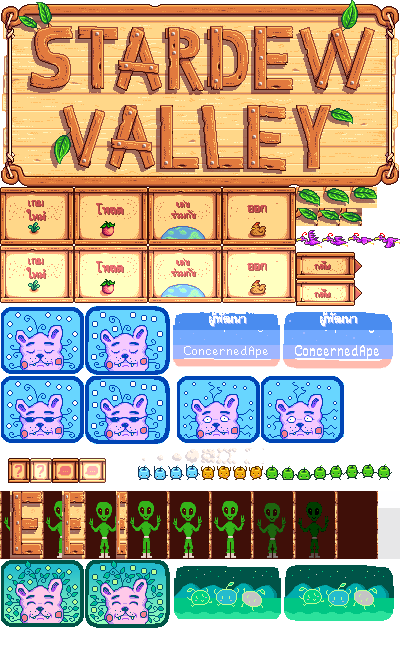
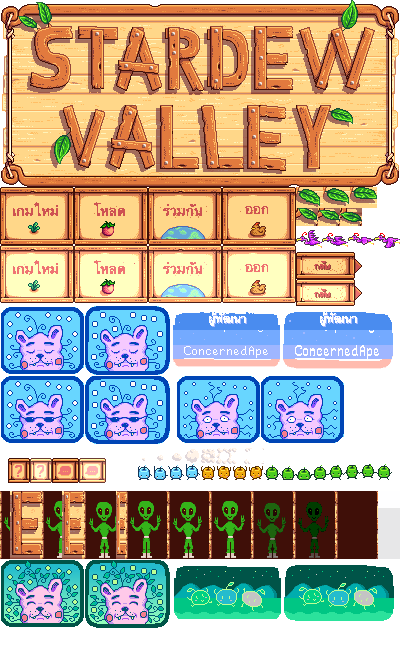
Rebuild localized title menu buttons

diff --git a/Tests/StardewTranslationInstallerTests/InstallerCoreTests.swift b/Tests/StardewTranslationInstallerTests/InstallerCoreTests.swift
@@ -350,6 +350,35 @@ struct InstallerCoreTests {
                 )
         )
 
+        let unifiedTitleButtonHashes = [
[19 lines of base64/hex data omitted]
+        ]
+        for (titlePath, expectedHash) in unifiedTitleButtonHashes {
+            try expect(try pngDimensions(titlePath) == (400, 655))
+            try expect(
+                try DependencyInstaller.sha256(of: payload.appendingPathComponent(titlePath))
+                    == expectedHash
+            )
+        }
+
         let vietnameseButtonPath = "assets/button-vietnamese.png"
         try expect(try pngDimensions(vietnameseButtonPath) == (174, 78))
         try expect(
@@ -360,7 +389,7 @@ struct InstallerCoreTests {
         try expect(try pngDimensions(vietnameseTitlePath) == (400, 655))
         try expect(
             try DependencyInstaller.sha256(of: payload.appendingPathComponent(vietnameseTitlePath))
[2 lines of base64/hex data omitted]
         )
 
         let hindiButtonPath = "assets/button-hindi.png"
@@ -373,7 +402,7 @@ struct InstallerCoreTests {
         try expect(try pngDimensions(hindiTitlePath) == (400, 655))
         try expect(
             try DependencyInstaller.sha256(of: payload.appendingPathComponent(hindiTitlePath))
[2 lines of base64/hex data omitted]
         )
 
         let swahiliButtonPath = "assets/button-swahili.png"
@@ -386,7 +415,7 @@ struct InstallerCoreTests {
         try expect(try pngDimensions(swahiliTitlePath) == (400, 655))
         try expect(
             try DependencyInstaller.sha256(of: payload.appendingPathComponent(swahiliTitlePath))
[2 lines of base64/hex data omitted]
         )
 
         let indonesianButtonPath = "assets/button-indonesian.png"
@@ -399,7 +428,7 @@ struct InstallerCoreTests {
         try expect(try pngDimensions(indonesianTitlePath) == (400, 655))
         try expect(
             try DependencyInstaller.sha256(of: payload.appendingPathComponent(indonesianTitlePath))
[2 lines of base64/hex data omitted]
         )
 
 
@@ -413,7 +442,7 @@ struct InstallerCoreTests {
         try expect(try pngDimensions(filipinoTitlePath) == (400, 655))
         try expect(
             try DependencyInstaller.sha256(of: payload.appendingPathComponent(filipinoTitlePath))
[2 lines of base64/hex data omitted]
         )
 
         let filipinoFontHashes = [
@@ -437,7 +466,7 @@ struct InstallerCoreTests {
         try expect(try pngDimensions(romanianTitlePath) == (400, 655))
         try expect(
             try DependencyInstaller.sha256(of: payload.appendingPathComponent(romanianTitlePath))
[2 lines of base64/hex data omitted]
         )
 
         try expect(try pngDimensions("assets/button-persian.png") == (174, 78))
@@ -450,7 +479,7 @@ struct InstallerCoreTests {
         try expect(
             try DependencyInstaller.sha256(
                 of: payload.appendingPathComponent("assets/title/TitleButtons-persian.png")
[2 lines of base64/hex data omitted]
         )
 
         try expect(try pngDimensions("assets/button-arabic.png") == (174, 78))
@@ -463,12 +492,12 @@ struct InstallerCoreTests {
         try expect(
             try DependencyInstaller.sha256(
                 of: payload.appendingPathComponent("assets/title/TitleButtons-arabic.png")
[2 lines of base64/hex data omitted]
         )
 
         let bulgarianAssetHashes = [
[5 lines of base64/hex data omitted]
         ]
@@ -491,7 +520,7 @@ struct InstallerCoreTests {
         try expect(
             try DependencyInstaller.sha256(
                 of: payload.appendingPathComponent("assets/title/TitleButtons-thai.png")
[2 lines of base64/hex data omitted]
         )
 
         let greekFontHashes = [
@@ -514,12 +543,12 @@ struct InstallerCoreTests {
         try expect(
             try DependencyInstaller.sha256(
                 of: payload.appendingPathComponent("assets/title/TitleButtons-greek.png")
[2 lines of base64/hex data omitted]
         )
 
         let czechAssetHashes = [
[5 lines of base64/hex data omitted]
         ]

diff --git a/Scripts/generate-title-buttons.py b/Scripts/generate-title-buttons.py
@@ -1,0 +1,206 @@
+#!/usr/bin/python3
+"""Generate readable main-menu buttons for every retained localization."""
+
+from __future__ import annotations
+
+import argparse
+import subprocess
+import tempfile
+from dataclasses import dataclass
+from pathlib import Path
+
+from PIL import Image, ImageDraw, ImageFont
+
+
+@dataclass(frozen=True)
+class TitleButtons:
+    filename: str
+    labels: tuple[tuple[str, ...], ...]
+    font: str
+    font_index: int = 0
+    shaped: bool = False
+    max_size: int = 13
+    threshold: int = 96
+
+
+ARIAL_BOLD = "/System/Library/Fonts/Supplemental/Arial Bold.ttf"
+GEEZA = "/System/Library/Fonts/GeezaPro.ttc"
+DEVANAGARI = "/System/Library/Fonts/Supplemental/Devanagari Sangam MN.ttc"
+SONGTI = "/System/Library/Fonts/Supplemental/Songti.ttc"
+NEW_PENINIM = "/System/Library/Fonts/Supplemental/NewPeninimMT.ttc"
+THONBURI = "/System/Library/Fonts/Supplemental/Thonburi.ttc"
+
+BUTTONS = (
+    TitleButtons("TitleButtons-russian.png", (("НОВАЯ", "ИГРА"), ("ЗАГРУЗИТЬ",), ("СОВМЕСТНАЯ", "ИГРА"), ("ВЫЙТИ", "ИЗ ИГРЫ")), ARIAL_BOLD),
+    TitleButtons("TitleButtons-serbian.png", (("НОВА", "ИГРА"), ("УЧИТАЈ",), ("ЗАЈЕДНО",), ("ИЗАЂИ",)), ARIAL_BOLD),
+    TitleButtons("TitleButtons.png", (("NOWA", "GRA"), ("WCZYTAJ",), ("KOOPERACJA",), ("WYJDŹ",)), ARIAL_BOLD),
+    TitleButtons("TitleButtons-ukrainian.png", (("НОВА", "ГРА"), ("ЗАВАНТАЖИТИ",), ("СПІЛЬНА", "ГРА"), ("ВИЙТИ", "З ГРИ")), ARIAL_BOLD),
+    TitleButtons("TitleButtons-vietnamese.png", (("CHƠI MỚI",), ("TẢI", "TRÒ CHƠI"), ("CHƠI", "CHUNG"), ("THOÁT",)), ARIAL_BOLD),
+    TitleButtons("TitleButtons-swahili.png", (("MCHEZO", "MPYA"), ("PAKIA",), ("USHIRIKIANO",), ("TOKA",)), ARIAL_BOLD),
+    TitleButtons("TitleButtons-persian.png", (("بازی", "جدید"), ("بارگیری",), ("چندنفره",), ("خروج",)), GEEZA, shaped=True, max_size=14, threshold=144),
+    TitleButtons("TitleButtons-arabic.png", (("لعبة", "جديدة"), ("تحميل",), ("تعاوني",), ("خروج",)), GEEZA, shaped=True, max_size=14, threshold=144),
+    TitleButtons("TitleButtons-indonesian.png", (("PERMAINAN", "BARU"), ("MUAT",), ("MAIN", "BERSAMA"), ("KELUAR",)), ARIAL_BOLD),
+    TitleButtons("TitleButtons-filipino.png", (("BAGONG", "LARO"), ("I-LOAD",), ("CO-OP",), ("LUMABAS",)), ARIAL_BOLD),
+    TitleButtons("TitleButtons-dutch.png", (("NIEUW", "SPEL"), ("LADEN",), ("COÖP",), ("AFSLUITEN",)), ARIAL_BOLD),
+    TitleButtons("TitleButtons-hindi.png", (("नया", "खेल"), ("लोड",), ("सहकारी",), ("बाहर", "निकलें")), DEVANAGARI, shaped=True, max_size=14, threshold=144),
+    TitleButtons("TitleButtons-traditional-chinese.png", (("新遊戲",), ("載入",), ("合作",), ("離開",)), SONGTI, font_index=2, max_size=14, threshold=128),
+    TitleButtons("TitleButtons-romanian.png", (("JOC", "NOU"), ("ÎNCARCĂ",), ("COOPERARE",), ("IEȘIRE",)), ARIAL_BOLD),
+    TitleButtons("TitleButtons-hebrew.png", (("משחק חדש",), ("טעינה",), ("משותף",), ("יציאה",)), NEW_PENINIM, shaped=True, max_size=14, threshold=144),
+    TitleButtons("TitleButtons-bulgarian.png", (("НОВА", "ИГРА"), ("ЗАРЕДИ",), ("ЗАЕДНО",), ("ИЗХОД",)), ARIAL_BOLD),
+    TitleButtons("TitleButtons-thai.png", (("เกมใหม่",), ("โหลด",), ("ร่วมกัน",), ("ออก",)), THONBURI, shaped=True, max_size=14, threshold=144),
+    TitleButtons("TitleButtons-greek.png", (("ΝΕΟ", "ΠΑΙΧΝΙΔΙ"), ("ΦΟΡΤΩΣΗ",), ("ΣΥΝΕΡΓΑΣΙΑ",), ("ΕΞΟΔΟΣ",)), ARIAL_BOLD),
+    TitleButtons("TitleButtons-czech.png", (("NOVÁ HRA",), ("NAČÍST",), ("KOOPERACE",), ("UKONČIT",)), ARIAL_BOLD),
+)
+
+ATLAS_SIZE = (400, 655)
+STRIP_POSITION = (0, 184)
+STRIP_SIZE = (296, 116)
+LABEL_BOXES = (
+    (6, 14, 65, 38),
+    (80, 14, 139, 38),
+    (154, 14, 213, 38),
+    (228, 14, 287, 38),
+)
+INK_COLORS = ((206, 82, 82, 255), (239, 115, 115, 255))
+STATE_OFFSET = 58
+MAX_TEXT_WIDTH = 53
+MAX_TEXT_HEIGHT = 20
+
+
+def render_pillow(text: str, font_path: Path, size: int, index: int, threshold: int) -> Image.Image:
+    font = ImageFont.truetype(str(font_path), size, index=index)
+    probe = Image.new("L", (256, 64), 0)
+    bounds = ImageDraw.Draw(probe).textbbox((0, 0), text, font=font)
+    mask = Image.new("L", (bounds[2] - bounds[0], bounds[3] - bounds[1]), 0)
+    ImageDraw.Draw(mask).text((-bounds[0], -bounds[1]), text, font=font, fill=255)
+    return mask.point(lambda value: 255 if value >= threshold else 0)
+
+
+def render_shaped(text: str, spec: TitleButtons, size: int, renderer: Path) -> Image.Image:
+    with tempfile.NamedTemporaryFile(suffix=".png") as output:
+        subprocess.run(
+            [str(renderer), spec.font, text, str(size), output.name, str(spec.font_index), str(spec.threshold)],
+            check=True,
+        )
+        return Image.open(output.name).convert("RGBA").getchannel("A").copy()
+
+
+def render_line(text: str, spec: TitleButtons, size: int, renderer: Path) -> Image.Image:
+    if spec.shaped:
+        return render_shaped(text, spec, size, renderer)
+    return render_pillow(text, Path(spec.font), size, spec.font_index, spec.threshold)
+
+
+def render_label(lines: tuple[str, ...], spec: TitleButtons, renderer: Path) -> Image.Image:
+    for size in range(spec.max_size, 6, -1):
+        masks = [render_line(line, spec, size, renderer) for line in lines]
+        gap = 1 if len(masks) > 1 else 0
+        width = max(mask.width for mask in masks)
+        height = sum(mask.height for mask in masks) + gap * (len(masks) - 1)
+        if width <= MAX_TEXT_WIDTH and height <= MAX_TEXT_HEIGHT:
+            label = Image.new("L", (width, height), 0)
+            y = 0
+            for mask in masks:
+                label.paste(mask, ((width - mask.width) // 2, y), mask)
+                y += mask.height + gap
+            return label
+    raise ValueError(f"Cannot fit title label: {' / '.join(lines)}")
+
+
+def build_atlas(source: Image.Image, template: Image.Image, spec: TitleButtons, renderer: Path) -> Image.Image:
+    result = source.copy()
+    result.paste(template, STRIP_POSITION)
+    for box, lines in zip(LABEL_BOXES, spec.labels):
+        label = render_label(lines, spec, renderer)
+        for state, color in enumerate(INK_COLORS):
+            left, top, right, bottom = box
+            x = left + ((right - left) - label.width) // 2
+            y = top + state * STATE_OFFSET + ((bottom - top) - label.height) // 2
+            result.paste(Image.new("RGBA", label.size, color), (x, y + STRIP_POSITION[1]), label)
+    return result
+
+
+def validate_atlas(atlas: Image.Image, template: Image.Image, spec: TitleButtons) -> None:
+    if atlas.size != ATLAS_SIZE:
+        raise ValueError(f"Invalid atlas dimensions for {spec.filename}: {atlas.size}")
+    strip = atlas.crop((0, 184, 296, 300))
+    for state, color in enumerate(INK_COLORS):
+        for index, box in enumerate(LABEL_BOXES):
+            left, top, right, bottom = box
+            top += state * STATE_OFFSET
+            bottom += state * STATE_OFFSET
+            points = [
+                (x, y)
+                for y in range(top, bottom)
+                for x in range(left, right)
+                if strip.getpixel((x, y)) == color
+            ]
+            if len(points) < 12:
+                raise ValueError(f"Unreadable or missing label {index} in {spec.filename}")
+            xs = [point[0] for point in points]
+            ys = [point[1] for point in points]
+            if min(xs) <= left or max(xs) >= right - 1 or min(ys) <= top or max(ys) >= bottom - 1:
+                raise ValueError(f"Label {index} touches its safe boundary in {spec.filename}")
+    allowed = set()
+    for state in range(2):
+        for left, top, right, bottom in LABEL_BOXES:
+            allowed.update(
+                (x, y)
+                for y in range(top + state * STATE_OFFSET, bottom + state * STATE_OFFSET)
+                for x in range(left, right)
+            )
+    for y in range(STRIP_SIZE[1]):
+        for x in range(STRIP_SIZE[0]):
+            if (x, y) not in allowed and strip.getpixel((x, y)) != template.getpixel((x, y)):
+                raise ValueError(f"Frame art changed in {spec.filename} at {x},{y}")
+    for y in range(58):
+        for x in range(296):
+            normal_ink = strip.getpixel((x, y)) == INK_COLORS[0]
+            hover_ink = strip.getpixel((x, y + STATE_OFFSET)) == INK_COLORS[1]
+            if normal_ink != hover_ink:
+                raise ValueError(f"Normal/hover label geometry differs in {spec.filename} at {x},{y}")
+
+
+def write_preview(atlases: list[Image.Image], output: Path) -> None:
+    scale = 3
+    columns = 2
+    gap = 8
+    strip_width = STRIP_SIZE[0] * scale
+    strip_height = STRIP_SIZE[1] * scale
+    rows = (len(atlases) + columns - 1) // columns
+    sheet = Image.new("RGB", (columns * strip_width + (columns + 1) * gap, rows * strip_height + (rows + 1) * gap), (0, 16, 23))
+    for index, atlas in enumerate(atlases):
+        strip = atlas.crop((0, 184, 296, 300)).resize((strip_width, strip_height), Image.Resampling.NEAREST)
+        x = gap + (index % columns) * (strip_width + gap)
+        y = gap + (index // columns) * (strip_height + gap)
+        sheet.paste(strip.convert("RGB"), (x, y))
+    output.parent.mkdir(parents=True, exist_ok=True)
+    sheet.save(output, format="PNG", optimize=False)
+
+
+def main() -> None:
+    parser = argparse.ArgumentParser()
+    parser.add_argument("assets", type=Path)
+    parser.add_argument("renderer", type=Path)
+    parser.add_argument("--template", type=Path, required=True)
+    parser.add_argument("--preview", type=Path)
+    args = parser.parse_args()
+
+    template = Image.open(args.template).convert("RGBA")
+    if template.size != STRIP_SIZE:
+        raise ValueError(f"Unexpected title-button template size: {template.size}")
+    atlases = []
+    for spec in BUTTONS:
+        path = args.assets / spec.filename
+        source = Image.open(path).convert("RGBA")
+        atlas = build_atlas(source, template, spec, args.renderer)
+        validate_atlas(atlas, template, spec)
+        atlas.save(path, format="PNG", optimize=False)
+        atlases.append(atlas)
+    if args.preview:
+        write_preview(atlases, args.preview)
+    print(f"Built and validated {len(atlases)} localized title-button atlases.")
+
+
+if __name__ == "__main__":
+    main()

diff --git a/Scripts/extract-title-button-template.py b/Scripts/extract-title-button-template.py
@@ -1,0 +1,62 @@
+#!/usr/bin/python3
+"""Recover the text-free main-menu button strip from official title atlases."""
+
+from __future__ import annotations
+
+import argparse
+from collections import Counter
+from pathlib import Path
+
+from PIL import Image
+
+
+ATLAS_SIZE = (400, 655)
+STRIP_BOX = (0, 184, 296, 300)
+LABEL_BOXES = (
+    (6, 14, 65, 38),
+    (80, 14, 139, 38),
+    (154, 14, 213, 38),
+    (228, 14, 287, 38),
+)
+INK_COLORS = ((206, 82, 82, 255), (239, 115, 115, 255))
+BACKGROUND_COLORS = ((255, 215, 137, 255), (255, 255, 192, 255))
+STATE_OFFSET = 58
+
+
+def main() -> None:
+    parser = argparse.ArgumentParser()
+    parser.add_argument("output", type=Path)
+    parser.add_argument("atlases", type=Path, nargs="+")
+    args = parser.parse_args()
+
+    atlases = [Image.open(path).convert("RGBA") for path in args.atlases]
+    if len(atlases) < 2:
+        raise ValueError("At least two official localized atlases are required")
+    for path, atlas in zip(args.atlases, atlases):
+        if atlas.size != ATLAS_SIZE:
+            raise ValueError(f"Unexpected TitleButtons atlas size for {path}: {atlas.size}")
+
+    strips = [atlas.crop(STRIP_BOX) for atlas in atlases]
+    result = strips[0].copy()
+    missing = 0
+    for state, (ink, background) in enumerate(zip(INK_COLORS, BACKGROUND_COLORS)):
+        offset_y = state * STATE_OFFSET
+        for left, top, right, bottom in LABEL_BOXES:
+            for y in range(top + offset_y, bottom + offset_y):
+                for x in range(left, right):
+                    candidates = [strip.getpixel((x, y)) for strip in strips]
+                    candidates = [color for color in candidates if color != ink]
+                    if candidates:
+                        color = Counter(candidates).most_common(1)[0][0]
+                    else:
+                        color = background
+                        missing += 1
+                    result.putpixel((x, y), color)
+
+    args.output.parent.mkdir(parents=True, exist_ok=True)
+    result.save(args.output, format="PNG", optimize=False)
+    print(f"Recovered title-button strip from {len(atlases)} atlases; fallback pixels: {missing}")
+
+
+if __name__ == "__main__":
+    main()

diff --git a/Scripts/assets/README.md b/Scripts/assets/README.md
@@ -15,3 +15,14 @@ The extractor combines all original labels and chooses an original background
 pixel wherever another label leaves that coordinate uncovered. This retains
 the game's wooden frame, parchment boundary, texture, and both hover colors
 without interpolating or repainting any part of the button.
+
+`title-button-template.png` is the text-free 296×116 strip containing the four
+main-menu buttons in both states. It is recovered from the official localized
+`Minigames/TitleButtons` atlases so that translated labels never inherit pixels
+from another language. Regenerate it with:
+
+```sh
+/usr/bin/python3 Scripts/extract-title-button-template.py \
+  Scripts/assets/title-button-template.png \
+  /path/to/unpacked/TitleButtons*.png
+```
